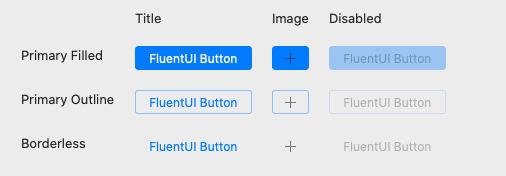
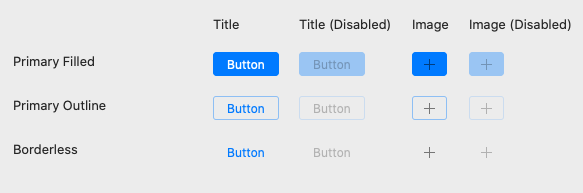
Added default initializer for button with image, updated test app and documentation

diff --git a/macos/FluentUITestApp/TestButtonViewController.swift b/macos/FluentUITestApp/TestButtonViewController.swift
@@ -15,38 +15,44 @@ class TestButtonViewController: NSViewController {
 			NSTextField(labelWithString: "Primary Outline"),
 			NSTextField(labelWithString: "Borderless"),
 		]
-		
-		let buttons: () -> [NSButton] = {
+
+		let buttonsWithTitle: () -> [NSButton] = {
 			return [
-				Button(title: "FluentUI Button", style: .primaryFilled),
-				Button(title: "FluentUI Button", style: .primaryOutline),
-				Button(title: "FluentUI Button", style: .borderless),
+				Button(title: "Button", style: .primaryFilled),
+				Button(title: "Button", style: .primaryOutline),
+				Button(title: "Button", style: .borderless),
 			]
 		}
 		
-		let buttonsWithTitle = buttons()
-		let buttonsWithImage = buttons().map { button -> NSButton in
-			button.imagePosition = .imageOnly
-			button.image = NSImage(named: NSImage.addTemplateName)
-			return button
-		}
-
-		let disabledButtons = buttons().map { button -> NSButton in
+		let disabledButtonsWithTitle = buttonsWithTitle().map { button -> NSButton in
 			button.isEnabled = false
 			return button
 		}
-		
+
+		let buttonsWithImage: () -> [NSButton] = {
+			return [
+
+				Button(image: NSImage(named: NSImage.addTemplateName)!, style: .primaryFilled),
+				Button(image: NSImage(named: NSImage.addTemplateName)!, style: .primaryOutline),
+				Button(image: NSImage(named: NSImage.addTemplateName)!, style: .borderless),
+			]
+		}
+
+		let disabledButtonsWithImage = buttonsWithImage().map { button -> NSButton in
+			button.isEnabled = false
+			return button
+		}
+
 		let gridView = NSGridView(frame: .zero)
 		gridView.rowSpacing = gridViewRowSpacing
 		gridView.columnSpacing = gridViewColumnSpacing
 		gridView.setContentHuggingPriority(.defaultHigh, for: .vertical)
-		gridView.setContentHuggingPriority(.defaultHigh, for: .horizontal)
 		
 		gridView.addColumn(with: columnLabels)
-		gridView.addColumn(with: buttonsWithTitle)
-		gridView.addColumn(with: buttonsWithImage)
-		gridView.addColumn(with: disabledButtons)
-		gridView.addColumn(with: [])	//Padding
+		gridView.addColumn(with: buttonsWithTitle())
+		gridView.addColumn(with: disabledButtonsWithTitle)
+		gridView.addColumn(with: buttonsWithImage())
+		gridView.addColumn(with: disabledButtonsWithImage)
 
 		let emptyCell = NSGridCell.emptyContentView
 	
@@ -54,8 +60,9 @@ class TestButtonViewController: NSViewController {
 		let rowLabels: [NSView] = [
 			emptyCell,
 			NSTextField(labelWithString: "Title"),
+			NSTextField(labelWithString: "Title (Disabled)"),
 			NSTextField(labelWithString: "Image"),
-			NSTextField(labelWithString: "Disabled")
+			NSTextField(labelWithString: "Image (Disabled)")
 		]
 		gridView.insertRow(at: 0, with: rowLabels)
 		gridView.addRow(with: [])	//Padding
@@ -67,9 +74,9 @@ class TestButtonViewController: NSViewController {
 												left: containerViewEdgeInsets,
 												bottom: containerViewEdgeInsets,
 												right: containerViewEdgeInsets)
-		
+
 		containerView.addView(gridView, in: .top)
-		
+
 		view = containerView
 	}
 }

diff --git a/macos/FluentUI/Button.swift b/macos/FluentUI/Button.swift
@@ -25,6 +25,15 @@ open class Button: NSButton {
 		initialize()
     }
 	
+	@objc public init(image: NSImage, style: ButtonStyle = .primaryFilled) {
+		super.init(frame: .zero)
+		self.style = style
+		initialize()
+		// Image must be set after `wantsLayer = true` so that the image is on the layer and not the underlying NSButtonCell
+		imagePosition = .imageOnly
+		self.image = image
+    }    
+	
 	public override init(frame frameRect: NSRect) {
 		super.init(frame: frameRect)
 		initialize()

diff --git a/macos/docs/Controls/Button.md b/macos/docs/Controls/Button.md
@@ -13,20 +13,17 @@ Buttons are one of the core controls that make an app feel native to the platfor
 ### Don't
 - Place the default focus on a button that performs a destructive actionn. Instead, place the default focus on the button that performs the "safe action" (e.g "Cancel").
 
-
 ## Usage
 ```Swift
-// There are 3 styles to choose from
+// There are 3 styles to choose from, the default being primary filled
 let primaryFilledButton = Button(title: "FluentUI Button", style: .primaryFilled),
 let primaryOutlineButton = Button(title: "FluentUI Button", style: .primaryOutline),
 let BorderlessButton = Button(title: "FluentUI Button", style: .borderless),
 ```
 
 ```Swift
-// You can set an image to ony display an image
-let buttonWithImage = Button()
-buttonWithImage.imagePosition = .imageOnly
-buttonWithImage.image = NSImage(named: NSImage.addTemplateName)
+// You can display an image instead of a title
+let buttonWithImageAndStyle = Button(image: NSImage(named: NSImage.addTemplateName)!, style: .primaryFilled)
 ```
 
 
